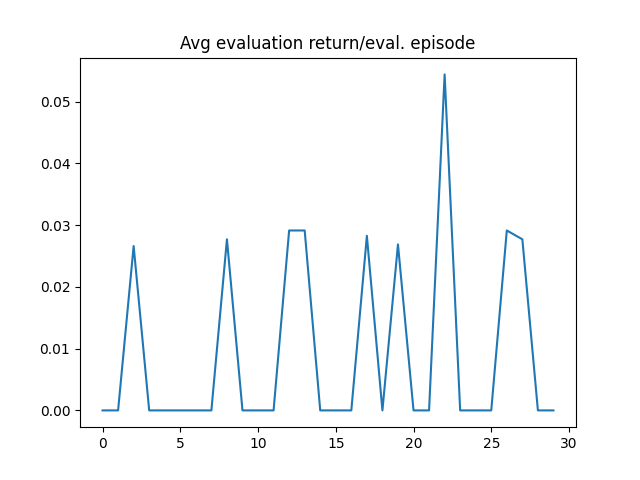
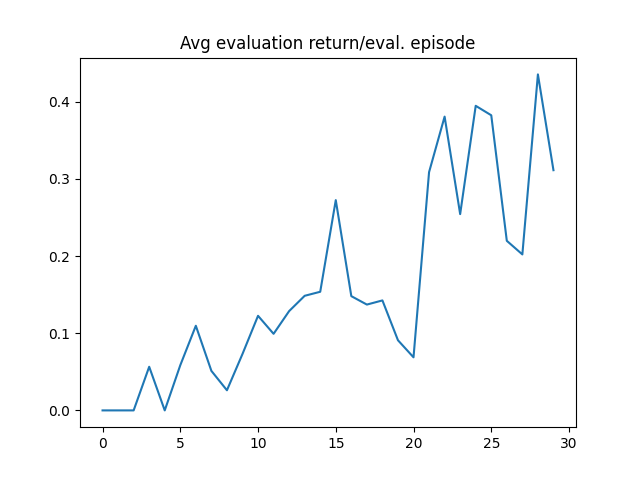
stop selecting random action at all times

diff --git a/q-learning/agent.py b/q-learning/agent.py
@@ -73,8 +73,6 @@ class QLearnerAgent:
         greedy_action = self.greedy_action(observation)
         if training:
             random_action = np.random.randint(0, 4)
-            if greedy_action:
-                return random_action
             return np.random.choice([greedy_action, random_action], p=[1-self.epsilon, self.epsilon]) # Choose A from S
         else:
             return greedy_action
@@ -89,10 +87,9 @@ class QLearnerAgent:
         :param done: Done flag.
         :param next_obs: The next observation.
         """
-        if not done:
-            old_q = self.q_table[obs, act]
-            new_q = old_q + self.learning_rate * (rew + self.gamma*np.max(self.q_table[next_obs]) - old_q)
-            self.q_table[obs, act] = new_q # update q_value
+        old_q = self.q_table[obs, act]
+        new_q = old_q + self.learning_rate * (rew + (1 - done)*self.gamma*np.max(self.q_table[next_obs]) - old_q) # terminal state has value 0
+        self.q_table[obs, act] = new_q # update q_value
 
     def decay_epsilon(self) -> None:
         if (self.epsilon_decay is not None) and (self.epsilon > self.epsilon_min):
